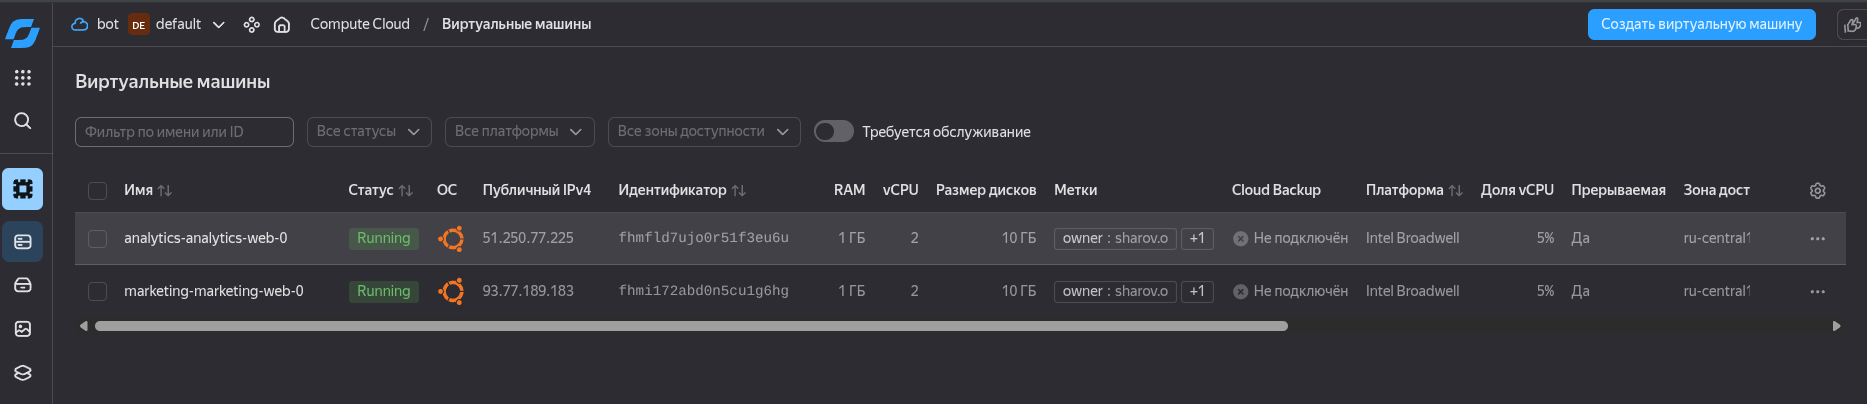
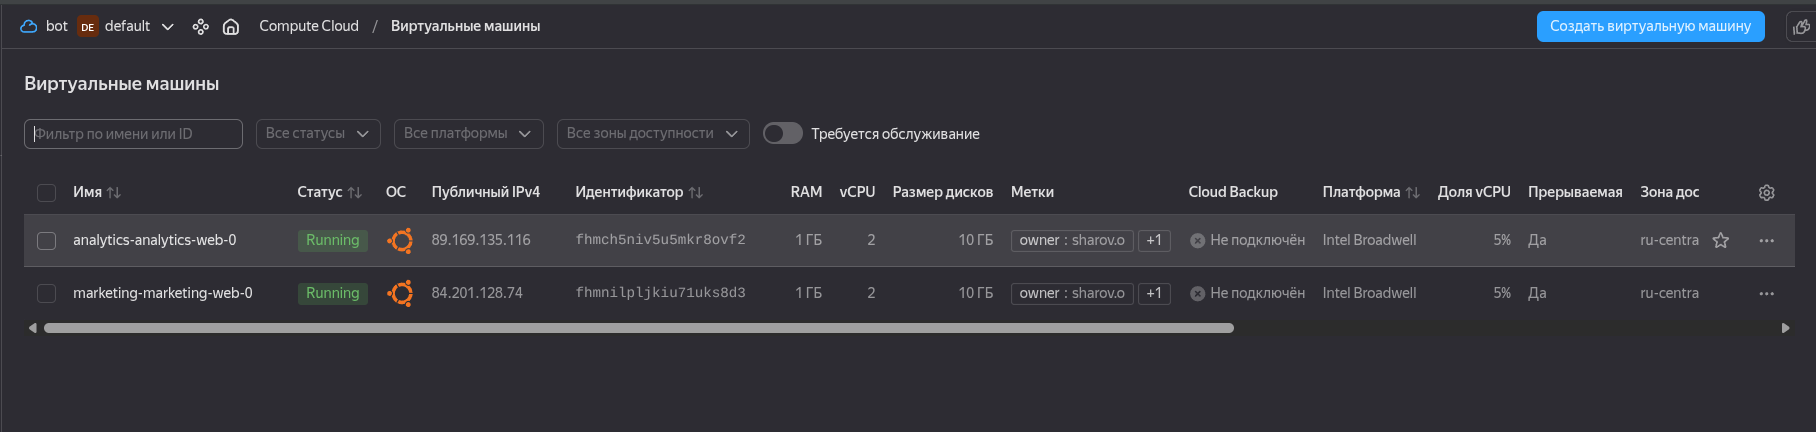
Task 2: Added local VPC module with terraform-docs

diff --git a/vpc/README.md b/vpc/README.md
@@ -1,0 +1,35 @@
+## Requirements
+
+No requirements.
+
+## Providers
+
+| Name | Version |
+| ---- | ------- |
+| <a name="provider_yandex"></a> [yandex](#provider\_yandex) | n/a |
+
+## Modules
+
+No modules.
+
+## Resources
+
+| Name | Type |
+| ---- | ---- |
+| [yandex_vpc_network.network](https://registry.terraform.io/providers/yandex-cloud/yandex/latest/docs/resources/vpc_network) | resource |
+| [yandex_vpc_subnet.subnet](https://registry.terraform.io/providers/yandex-cloud/yandex/latest/docs/resources/vpc_subnet) | resource |
+
+## Inputs
+
+| Name | Description | Type | Default | Required |
+| ---- | ----------- | ---- | ------- | :------: |
+| <a name="input_cidr"></a> [cidr](#input\_cidr) | CIDR block for subnet (e.g., 10.0.1.0/24) | `string` | n/a | yes |
+| <a name="input_env_name"></a> [env\_name](#input\_env\_name) | Environment name (e.g., develop, stage, production) | `string` | n/a | yes |
+| <a name="input_zone"></a> [zone](#input\_zone) | Availability zone (e.g., ru-central1-a) | `string` | n/a | yes |
+
+## Outputs
+
+| Name | Description |
+| ---- | ----------- |
+| <a name="output_network_id"></a> [network\_id](#output\_network\_id) | ID of the created network |
+| <a name="output_subnet_id"></a> [subnet\_id](#output\_subnet\_id) | ID of the created subnet |
